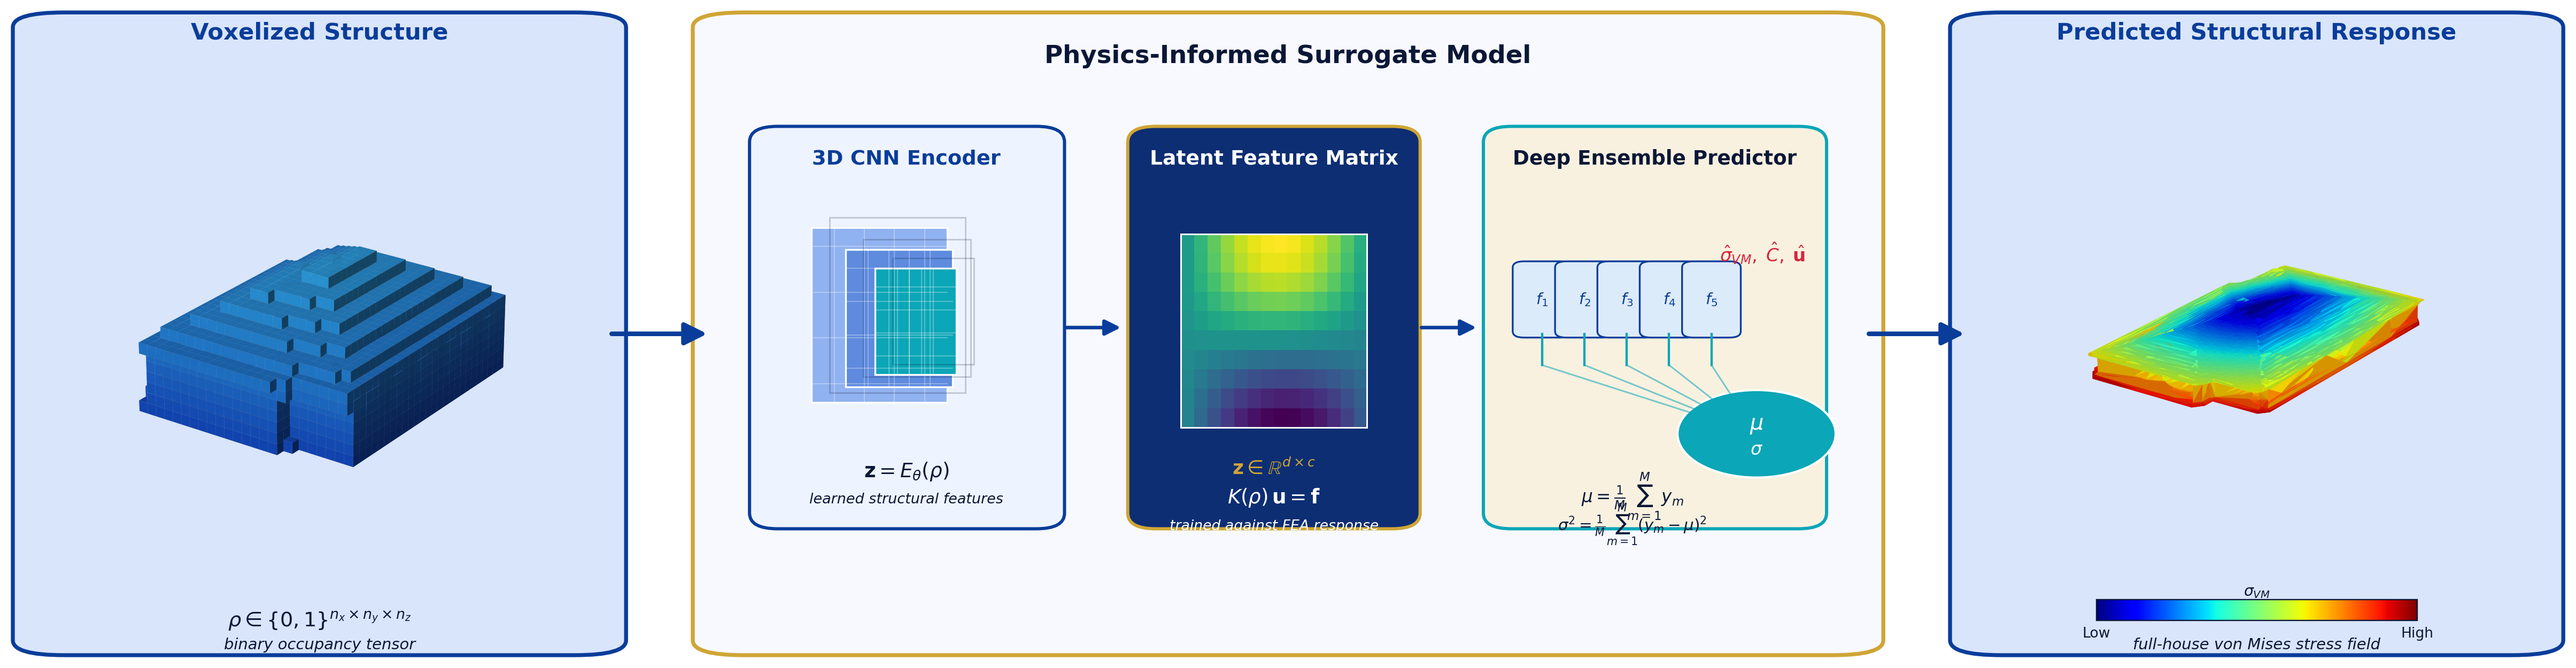
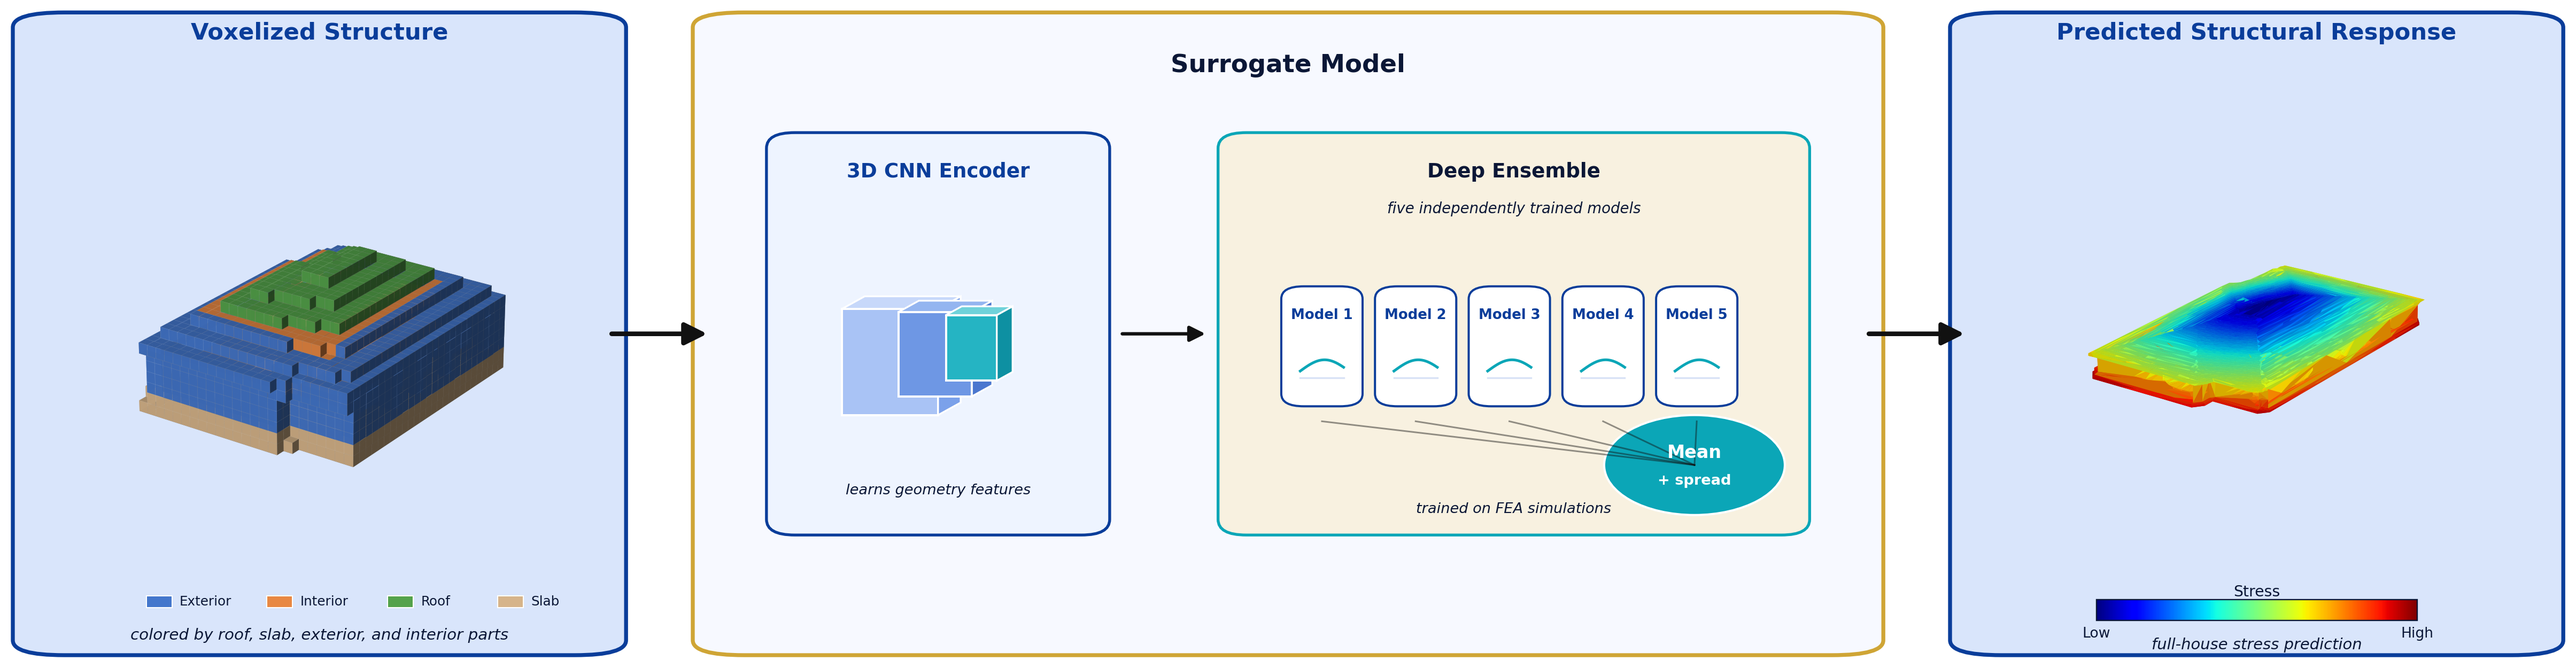
problem framing: simplify model panel and part-colored voxels

diff --git a/generate_problem_framing.py b/generate_problem_framing.py
@@ -1,17 +1,4 @@
-"""
-Generate the poster problem-framing diagram.
-
-New layout:
-  [real voxelized house] -> [single surrogate-model panel] -> [full-house stress response]
-
-The middle panel contains:
-  - 3D CNN encoder cue
-  - latent feature matrix
-  - deep ensemble predictor
-  - compact physics/training equation strip
-
-Output: poster_images_extracted/problem_framing.png
-"""
+"""Generate a simplified problem-framing diagram for the poster."""
 
 import matplotlib
 matplotlib.use("Agg")
@@ -21,7 +8,7 @@ import matplotlib.patches as mpatches
 import matplotlib.pyplot as plt
 import numpy as np
 import trimesh
-from matplotlib.patches import Circle, FancyArrowPatch, FancyBboxPatch
+from matplotlib.patches import Circle, FancyArrowPatch, FancyBboxPatch, Polygon
 from mpl_toolkits.mplot3d.art3d import Poly3DCollection
 from pathlib import Path
 
@@ -35,31 +22,51 @@ RED = "#D7263D"
 DARK = "#0B1736"
 CARD = "#F7F9FF"
 WHITE = "#FFFFFF"
+BLACK = "#111111"
+WALL = "#4477CC"
+INTERIOR = "#E88843"
+ROOF = "#54A24B"
+SLAB = "#D6B48A"
 
 OUT = Path("poster_images_extracted/problem_framing.png")
 
 
 def render_voxelized_house(ax3d, mesh_path, pitch_div=28, elev=24, azim=-55):
-    """Voxelize the full-house mesh and render the filled voxel shell."""
+    """Voxelize the full-house mesh and color major building parts heuristically."""
     mesh = trimesh.load(str(mesh_path), force="mesh", process=False)
     pitch = float(mesh.extents.max() / pitch_div)
     vox = mesh.voxelized(pitch)
     filled = np.asarray(vox.matrix, dtype=bool)
 
     sx, sy, sz = filled.shape
-    zgrad = np.linspace(0, 1, sz)[None, None, :]
     facecolors = np.zeros(filled.shape + (4,), dtype=float)
     edgecolors = np.zeros_like(facecolors)
 
-    facecolors[..., 0] = 0.08 + 0.10 * zgrad
-    facecolors[..., 1] = 0.30 + 0.35 * zgrad
-    facecolors[..., 2] = 0.78 + 0.15 * zgrad
-    facecolors[..., 3] = 0.98
+    x = np.linspace(0, 1, sx)[:, None, None]
+    y = np.linspace(0, 1, sy)[None, :, None]
+    z = np.linspace(0, 1, sz)[None, None, :]
+
+    roof_mask = filled & (z > 0.78)
+    slab_mask = filled & (z < 0.14)
+    outer_mask = filled & ((x < 0.15) | (x > 0.85) | (y < 0.15) | (y > 0.85))
+    interior_mask = filled & ~(roof_mask | slab_mask | outer_mask)
+
+    def apply_color(mask, hex_color, alpha=0.98):
+        rgb = mcolors.to_rgb(hex_color)
+        facecolors[mask, 0] = rgb[0]
+        facecolors[mask, 1] = rgb[1]
+        facecolors[mask, 2] = rgb[2]
+        facecolors[mask, 3] = alpha
+
+    apply_color(outer_mask, WALL)
+    apply_color(interior_mask, INTERIOR)
+    apply_color(roof_mask, ROOF)
+    apply_color(slab_mask, SLAB)
 
     edgecolors[..., 0] = 1.0
     edgecolors[..., 1] = 1.0
     edgecolors[..., 2] = 1.0
-    edgecolors[..., 3] = 0.12
+    edgecolors[..., 3] = 0.15
 
     ax3d.voxels(
         filled,
@@ -129,6 +136,36 @@ def render_mesh(ax3d, ply_path, color_mode="stress", elev=22, azim=-55, ambient=
     ax3d.set_axis_off()
 
 
+def draw_volume_block(ax, x, y, w, h, dx, dy, face, side, top):
+    """Draw a simple perspective feature-volume block."""
+    front = mpatches.Rectangle((x, y), w, h, facecolor=face, edgecolor=WHITE, linewidth=1.2)
+    ax.add_patch(front)
+    ax.add_patch(Polygon(
+        [[x + w, y], [x + w + dx, y + dy], [x + w + dx, y + h + dy], [x + w, y + h]],
+        closed=True, facecolor=side, edgecolor=WHITE, linewidth=1.0,
+    ))
+    ax.add_patch(Polygon(
+        [[x, y + h], [x + dx, y + h + dy], [x + w + dx, y + h + dy], [x + w, y + h]],
+        closed=True, facecolor=top, edgecolor=WHITE, linewidth=1.0,
+    ))
+
+
+def draw_model_card(ax, x, y, w, h, label):
+    """Draw a clean ensemble-member card."""
+    card = FancyBboxPatch(
+        (x, y), w, h,
+        boxstyle="round,pad=0.006,rounding_size=0.02",
+        facecolor=WHITE, edgecolor=BLUE, linewidth=1.2,
+    )
+    ax.add_patch(card)
+    ax.text(x + w / 2, y + h * 0.78, label,
+            ha="center", va="center", fontsize=7.8, color=BLUE, fontweight="bold")
+    xs = np.linspace(x + w * 0.18, x + w * 0.82, 30)
+    ys = y + h * (0.28 + 0.10 * np.sin(np.linspace(0, 2.8, 30)))
+    ax.plot(xs, ys, color=TEAL, lw=1.5)
+    ax.plot([x + w * 0.18, x + w * 0.82], [y + h * 0.22, y + h * 0.22], color="#D8E2F6", lw=1.0)
+
+
 def add_card(fig, xywh, facecolor, edgecolor, lw=2.2, radius=0.02, zorder=0):
     x, y, w, h = xywh
     fig.add_artist(FancyBboxPatch(
@@ -145,7 +182,7 @@ def add_card(fig, xywh, facecolor, edgecolor, lw=2.2, radius=0.02, zorder=0):
     ))
 
 
-def add_arrow(fig, start, end, color=BLUE, lw=2.6, scale=26, z=15):
+def add_arrow(fig, start, end, color=BLACK, lw=2.6, scale=26, z=15):
     fig.add_artist(FancyArrowPatch(
         start,
         end,
@@ -179,11 +216,19 @@ render_voxelized_house(ax_left, "figures/screenshot_stls/REF_original_colored.pl
 
 fig.text(0.1225, 0.905, "Voxelized Structure",
          ha="center", va="center", fontsize=13, fontweight="bold", color=BLUE)
-fig.text(0.1225, 0.115,
-         r"$\rho \in \{0,1\}^{n_x \times n_y \times n_z}$",
-         ha="center", va="center", fontsize=11.5, color=DARK, fontweight="bold")
-fig.text(0.1225, 0.082, "binary occupancy tensor",
-         ha="center", va="center", fontsize=8.7, color=DARK, fontstyle="italic")
+fig.text(0.1225, 0.095, "colored by roof, slab, exterior, and interior parts",
+         ha="center", va="center", fontsize=8.8, color=DARK, fontstyle="italic")
+
+legend_y = 0.132
+legend_x = [0.055, 0.102, 0.149, 0.192]
+legend_colors = [WALL, INTERIOR, ROOF, SLAB]
+legend_labels = ["Exterior", "Interior", "Roof", "Slab"]
+for x0, c0, txt in zip(legend_x, legend_colors, legend_labels):
+    fig.add_artist(mpatches.Rectangle((x0, legend_y), 0.010, 0.016,
+                                      transform=fig.transFigure, facecolor=c0,
+                                      edgecolor=WHITE, linewidth=0.6, zorder=10))
+    fig.text(x0 + 0.013, legend_y + 0.008, txt,
+             ha="left", va="center", fontsize=7.4, color=DARK)
 
 
 # ── Middle: one coherent surrogate-model panel ───────────────────────────────
@@ -192,102 +237,57 @@ ax_mid.set_xlim(0, 1)
 ax_mid.set_ylim(0, 1)
 ax_mid.set_axis_off()
 
-ax_mid.text(0.50, 0.945, "Physics-Informed Surrogate Model",
+ax_mid.text(0.50, 0.93, "Surrogate Model",
             ha="center", va="center", fontsize=14, fontweight="bold", color=DARK)
 
-# encoder block
-enc_box = FancyBboxPatch((0.035, 0.20), 0.255, 0.62,
+# encoder area
+enc_box = FancyBboxPatch((0.05, 0.19), 0.28, 0.62,
                          boxstyle="round,pad=0.012,rounding_size=0.025",
-                         facecolor="#EEF4FF", edgecolor=BLUE, linewidth=1.8)
+                         facecolor="#EEF4FF", edgecolor=BLUE, linewidth=1.6)
 ax_mid.add_patch(enc_box)
-ax_mid.text(0.162, 0.78, "3D CNN Encoder",
-            ha="center", va="center", fontsize=11.5, fontweight="bold", color=BLUE)
+ax_mid.text(0.19, 0.76, "3D CNN Encoder",
+            ha="center", va="center", fontsize=11.2, fontweight="bold", color=BLUE)
+draw_volume_block(ax_mid, 0.105, 0.37, 0.085, 0.17, 0.020, 0.020,
+                  "#A9C3F5", "#7BA1EA", "#C7D8FA")
+draw_volume_block(ax_mid, 0.155, 0.40, 0.065, 0.135, 0.018, 0.018,
+                  "#6E97E4", "#4B77CF", "#94B5F0")
+draw_volume_block(ax_mid, 0.197, 0.425, 0.045, 0.105, 0.014, 0.014,
+                  "#25B4C3", "#0E90A2", "#6FD2DA")
+ax_mid.text(0.19, 0.25, "learns geometry features",
+            ha="center", va="center", fontsize=8.2, color=DARK, fontstyle="italic")
 
-for w, h, dx, dy, c in [
-    (0.120, 0.28, 0.000, 0.000, "#91B2F0"),
-    (0.095, 0.22, 0.030, 0.025, "#5E8BDE"),
-    (0.072, 0.17, 0.056, 0.045, TEAL),
-]:
-    x0 = 0.078 + dx
-    y0 = 0.39 + dy
-    ax_mid.add_patch(mpatches.Rectangle((x0, y0), w, h,
-                                        facecolor=c, edgecolor=WHITE, linewidth=1.0))
-    ax_mid.add_patch(mpatches.Rectangle((x0 + 0.016, y0 + 0.016), w, h,
-                                        facecolor="none", edgecolor=DARK,
-                                        linewidth=0.8, alpha=0.22))
-    for gx in np.linspace(x0 + 0.02, x0 + w - 0.02, 4):
-        ax_mid.plot([gx, gx], [y0, y0 + h], color=WHITE, lw=0.45, alpha=0.40)
-    for gy in np.linspace(y0 + 0.03, y0 + h - 0.03, 4):
-        ax_mid.plot([x0, x0 + w], [gy, gy], color=WHITE, lw=0.45, alpha=0.40)
+# clean black arrow to ensemble
+ax_mid.add_patch(FancyArrowPatch((0.35, 0.50), (0.43, 0.50), arrowstyle="-|>",
+                                 mutation_scale=18, color=BLACK, lw=1.9))
 
-ax_mid.text(0.162, 0.28, r"$\mathbf{z}=E_{\theta}(\rho)$",
-            ha="center", va="center", fontsize=11.2, color=DARK, fontweight="bold")
-ax_mid.text(0.162, 0.235, "learned structural features",
-            ha="center", va="center", fontsize=8.1, color=DARK, fontstyle="italic")
-
-# latent matrix block
-lat_box = FancyBboxPatch((0.370, 0.20), 0.235, 0.62,
+# ensemble area
+ens_box = FancyBboxPatch((0.45, 0.19), 0.50, 0.62,
                          boxstyle="round,pad=0.012,rounding_size=0.025",
-                         facecolor="#0D2E73", edgecolor=GOLD, linewidth=1.8)
-ax_mid.add_patch(lat_box)
-ax_mid.text(0.4875, 0.78, "Latent Feature Matrix",
-            ha="center", va="center", fontsize=11.3, fontweight="bold", color=WHITE)
-
-ax_lat = fig.add_axes([mid[0] + mid[2] * 0.405, mid[1] + mid[3] * 0.35,
-                       mid[2] * 0.165, mid[3] * 0.31])
-latent = np.outer(np.sin(np.linspace(0.2, 2.8, 14)), np.cos(np.linspace(0.1, 2.6, 10))).T
-latent += 0.18 * np.outer(np.linspace(0, 1, 10), np.linspace(1, 0, 14))
-ax_lat.imshow(latent, cmap="viridis", aspect="auto", interpolation="nearest")
-ax_lat.set_xticks([])
-ax_lat.set_yticks([])
-for spine in ax_lat.spines.values():
-    spine.set_color(WHITE)
-    spine.set_linewidth(0.9)
-
-ax_mid.text(0.4875, 0.285, r"$\mathbf{z} \in \mathbb{R}^{d \times c}$",
-            ha="center", va="center", fontsize=10.8, color=GOLD, fontweight="bold")
-ax_mid.text(0.4875, 0.238, r"$K(\rho)\,\mathbf{u}=\mathbf{f}$",
-            ha="center", va="center", fontsize=11.2, color=WHITE, fontweight="bold")
-ax_mid.text(0.4875, 0.192, "trained against FEA response",
-            ha="center", va="center", fontsize=8.0, color=WHITE, fontstyle="italic")
-
-# ensemble block
-ens_box = FancyBboxPatch((0.685, 0.20), 0.280, 0.62,
-                         boxstyle="round,pad=0.012,rounding_size=0.025",
-                         facecolor="#F8F1E0", edgecolor=TEAL, linewidth=1.8)
+                         facecolor="#F8F1E0", edgecolor=TEAL, linewidth=1.6)
 ax_mid.add_patch(ens_box)
-ax_mid.text(0.825, 0.78, "Deep Ensemble Predictor",
+ax_mid.text(0.70, 0.76, "Deep Ensemble",
             ha="center", va="center", fontsize=11.2, fontweight="bold", color=DARK)
+ax_mid.text(0.70, 0.70, "five independently trained models",
+            ha="center", va="center", fontsize=8.3, color=DARK, fontstyle="italic")
 
-member_x = np.linspace(0.725, 0.875, 5)
-for i, mx in enumerate(member_x):
-    ax_mid.add_patch(FancyBboxPatch((mx - 0.020, 0.50), 0.040, 0.11,
-                                    boxstyle="round,pad=0.006,rounding_size=0.01",
-                                    facecolor="#DCEBFA", edgecolor=BLUE, linewidth=1.0))
-    ax_mid.text(mx, 0.555, rf"$f_{i+1}$", ha="center", va="center",
-                fontsize=8.6, color=BLUE, fontweight="bold")
-    ax_mid.plot([mx, mx], [0.45, 0.50], color=TEAL, lw=1.3)
-    ax_mid.plot([mx, 0.915], [0.45, 0.34], color=TEAL, lw=0.9, alpha=0.55)
+start_x = 0.50
+gap = 0.083
+for i in range(5):
+    draw_model_card(ax_mid, start_x + i * gap, 0.39, 0.060, 0.18, f"Model {i+1}")
 
-stats = Circle((0.915, 0.34), 0.070, facecolor=TEAL, edgecolor=WHITE, linewidth=1.2)
-ax_mid.add_patch(stats)
-ax_mid.text(0.915, 0.355, r"$\mu$", ha="center", va="center",
-            fontsize=12, color=WHITE, fontweight="bold")
-ax_mid.text(0.915, 0.315, r"$\sigma$", ha="center", va="center",
-            fontsize=10, color=WHITE, fontweight="bold")
+for i in range(5):
+    xm = start_x + i * gap + 0.030
+    ax_mid.plot([xm, 0.86], [0.36, 0.29], color=BLACK, lw=0.9, alpha=0.45)
 
-ax_mid.text(0.805, 0.24, r"$\mu = \frac{1}{M}\sum_{m=1}^{M} y_m$",
-            ha="center", va="center", fontsize=9.8, color=DARK, fontweight="bold")
-ax_mid.text(0.805, 0.195, r"$\sigma^2 = \frac{1}{M}\sum_{m=1}^{M}(y_m-\mu)^2$",
-            ha="center", va="center", fontsize=8.8, color=DARK)
+summary = Circle((0.86, 0.29), 0.080, facecolor=TEAL, edgecolor=WHITE, linewidth=1.2)
+ax_mid.add_patch(summary)
+ax_mid.text(0.86, 0.31, "Mean",
+            ha="center", va="center", fontsize=10.0, color=WHITE, fontweight="bold")
+ax_mid.text(0.86, 0.265, "+ spread",
+            ha="center", va="center", fontsize=8.2, color=WHITE, fontweight="bold")
 
-# internal arrows and output label
-ax_mid.add_patch(FancyArrowPatch((0.300, 0.51), (0.355, 0.51), arrowstyle="-|>",
-                                 mutation_scale=18, color=BLUE, lw=2.0))
-ax_mid.add_patch(FancyArrowPatch((0.615, 0.51), (0.670, 0.51), arrowstyle="-|>",
-                                 mutation_scale=18, color=BLUE, lw=2.0))
-ax_mid.text(0.92, 0.63, r"$\hat{\sigma}_{VM},\;\hat{C},\;\hat{\mathbf{u}}$",
-            ha="center", va="center", fontsize=10.2, color=RED, fontweight="bold")
+ax_mid.text(0.70, 0.22, "trained on FEA simulations",
+            ha="center", va="center", fontsize=8.2, color=DARK, fontstyle="italic")
 
 
 # ── Right: full-house structural response ───────────────────────────────────
@@ -297,7 +297,7 @@ render_mesh(ax_right, "figures/screenshot_stls/REF_SASTO_PA_colored.ply",
 
 fig.text(0.8775, 0.905, "Predicted Structural Response",
          ha="center", va="center", fontsize=13, fontweight="bold", color=BLUE)
-fig.text(0.8775, 0.082, "full-house von Mises stress field",
+fig.text(0.8775, 0.082, "full-house stress prediction",
          ha="center", va="center", fontsize=8.7, color=DARK, fontstyle="italic")
 
 ax_cb = fig.add_axes([0.815, 0.115, 0.125, 0.028])
@@ -311,7 +311,7 @@ cb.set_ticklabels(["Low", "High"])
 cb.ax.tick_params(labelsize=8, size=0, colors=DARK)
 cb.outline.set_edgecolor(DARK)
 cb.outline.set_linewidth(0.7)
-ax_cb.set_title(r"$\sigma_{VM}$", fontsize=8.5, color=DARK, pad=2)
+ax_cb.set_title("Stress", fontsize=8.5, color=DARK, pad=2)
 
 
 plt.savefig(str(OUT), dpi=240, bbox_inches="tight", facecolor=WHITE, edgecolor="none")
